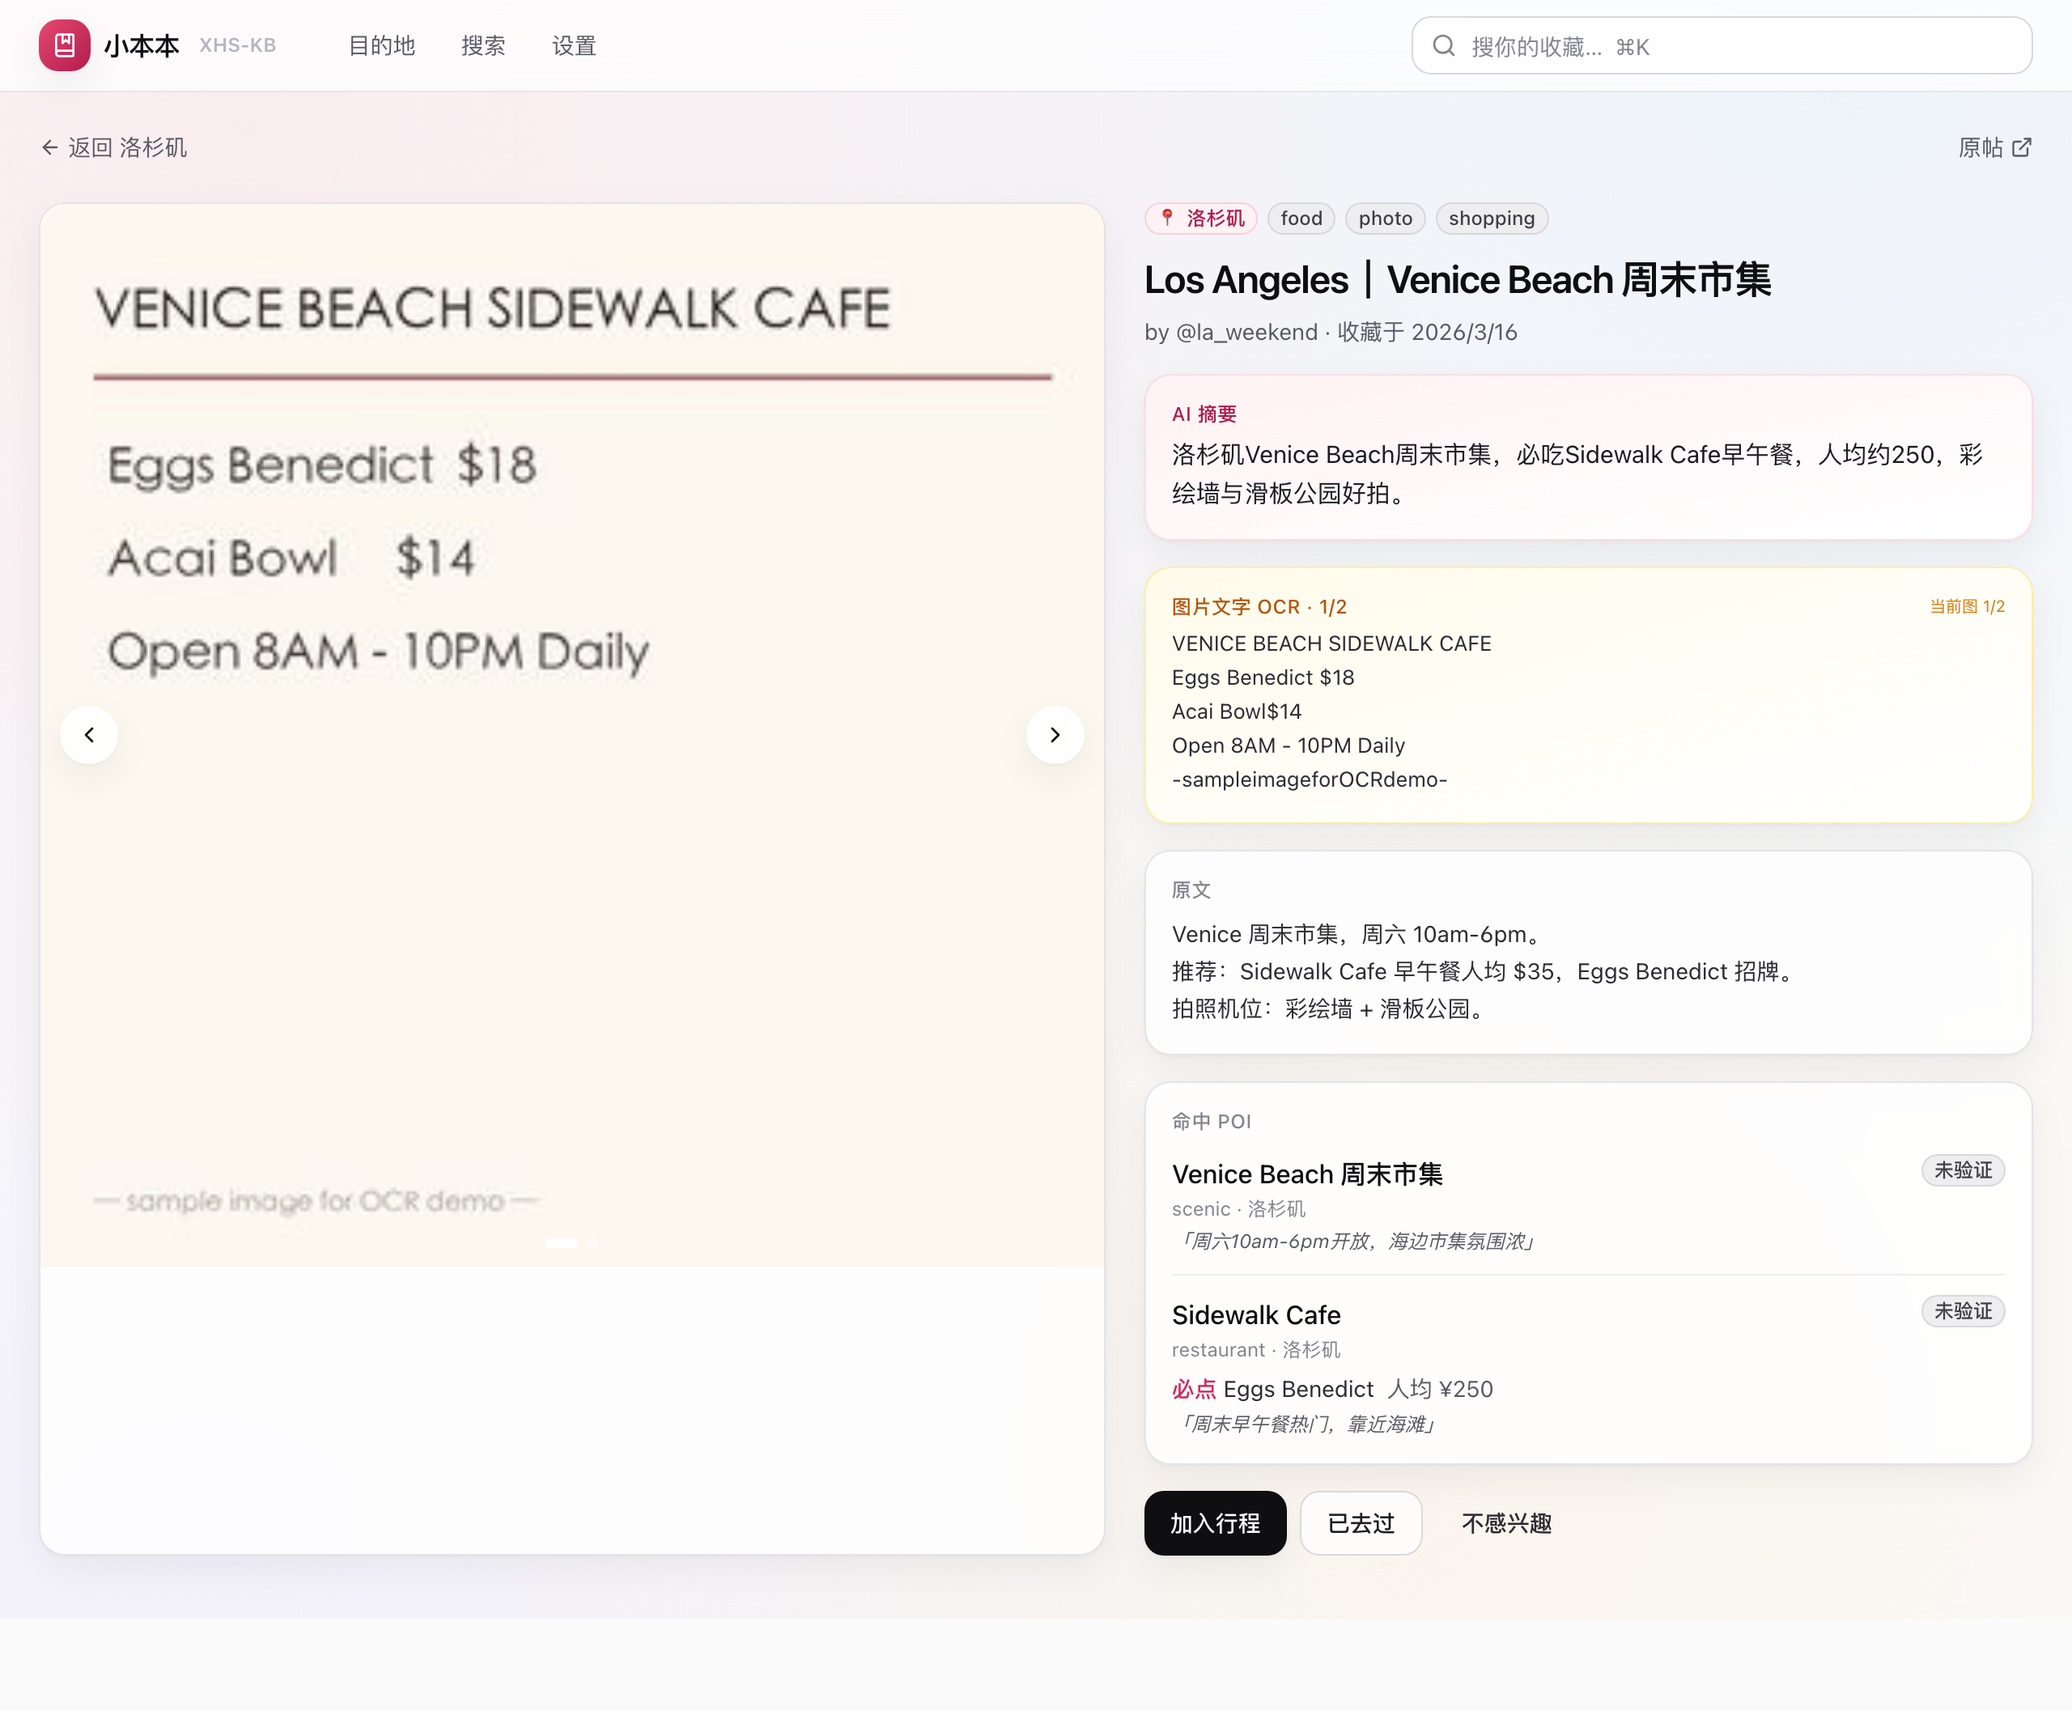
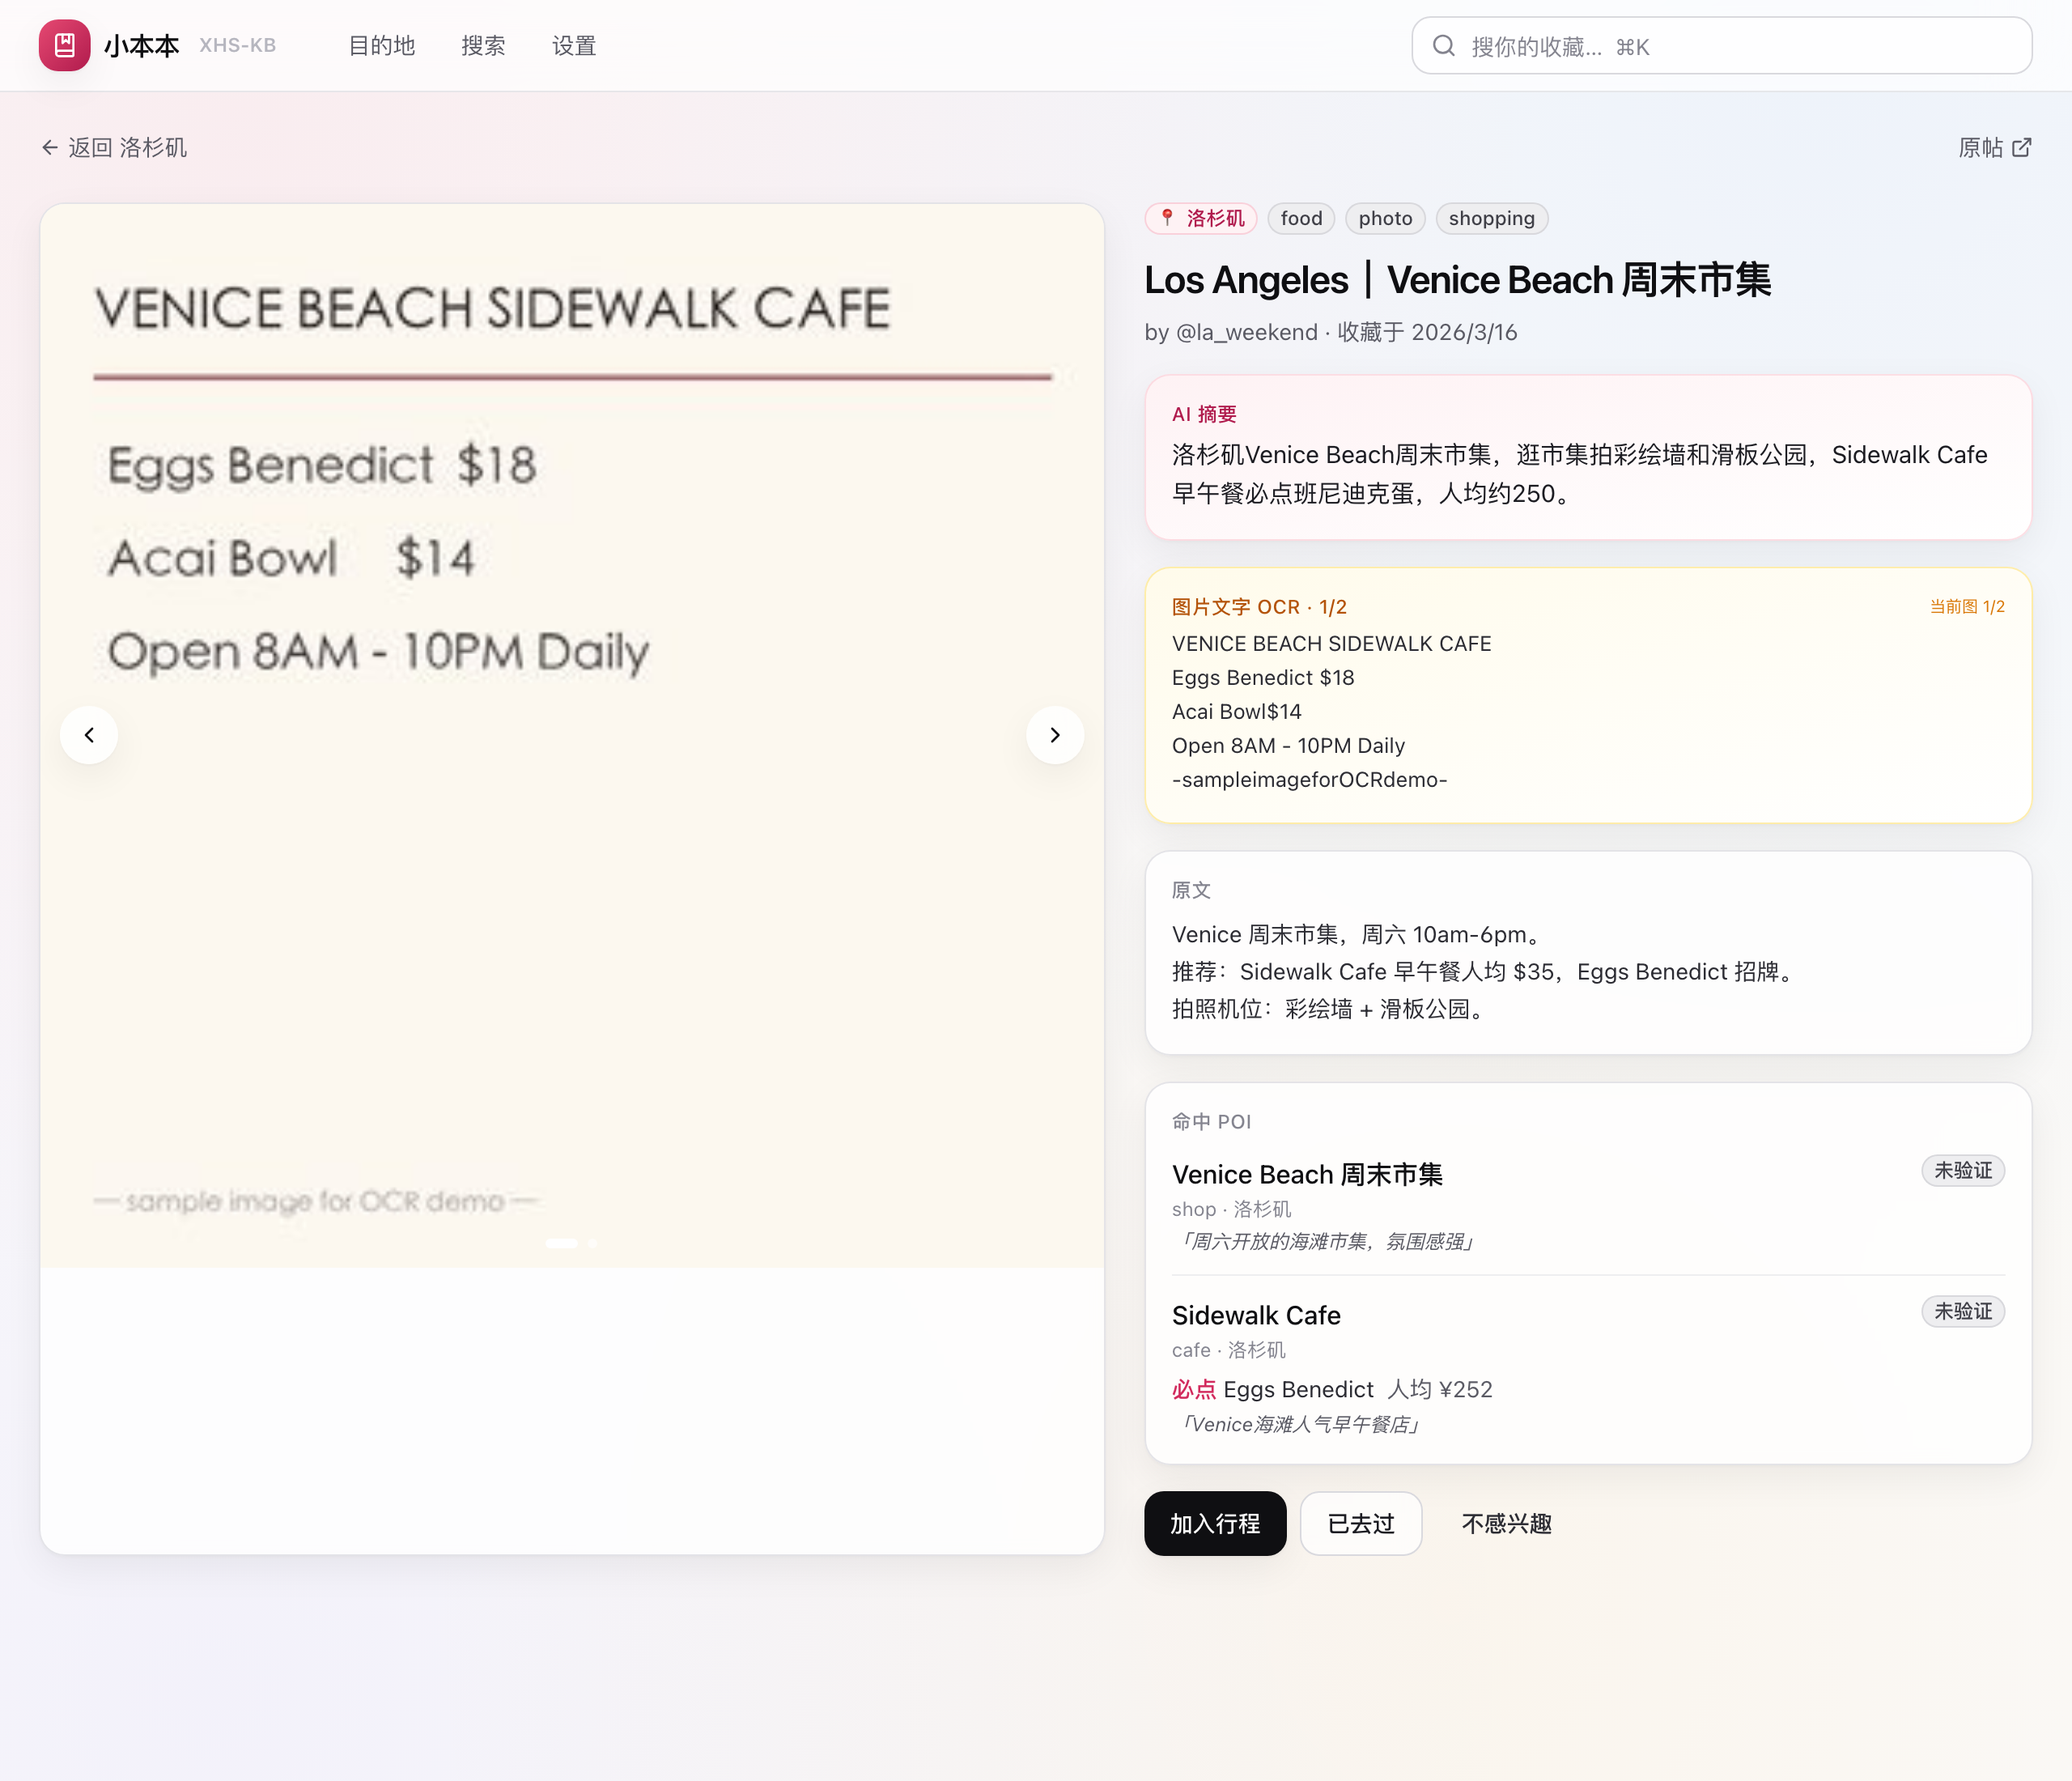
feat(embedding): multilingual-e5-small (384d) provider for CN+EN search
- backend/app/providers/embedding.py: LocalE5SmallProvider wraps sentence-transformers; lazy-loads on first use, prefixes 'passage:' for index and 'query:' (via embed_query) for search per e5 paper. Auto-sets HF_ENDPOINT=hf-mirror.com if unset (needed in CN networks).
- backend/app/providers/embedding.py: get_embedding_provider() honours new settings.embedding_provider config: 'auto' (default) prefers local e5 if installed → Azure → Qwen → Mock; 'local' forces e5; existing 'azure'/'qwen'/'mock' work as before.
- backend/app/services/search.py: hybrid_search uses embed_query() when provider supports it.
- backend/app/config.py: embedding_provider setting.

Verified end-to-end with re-seeded DB:
- '抹茶圣代' → kyt001 score 0.953 (top, gap 0.57 to next)
- '拉面' → kyt003 0.391 top
- 'Eggs Benedict' (English query) → la001 score 2.037 top — proves the OCR-extracted text from the Venice Beach menu image is indexed via e5 and found by an English query, validating the OCR + embedding pipelines end to end.

Screenshots: docs/screenshots/05b-search-ocr-english.png, 05c-search-matcha.png, 05d-search-ramen.png

diff --git a/backend/app/providers/embedding.py b/backend/app/providers/embedding.py
@@ -121,6 +121,48 @@ class AzureOpenAIEmbeddingProvider(EmbeddingProvider):
             return self._fallback.embed(texts)
 
 
+class LocalE5SmallProvider(EmbeddingProvider):
+    """sentence-transformers ``intfloat/multilingual-e5-small`` (384-d).
+
+    First call downloads ~120 MB of model weights to ``~/.cache/huggingface``
+    (set ``HF_ENDPOINT=https://hf-mirror.com`` if you're in mainland China).
+    Subsequent calls hit the in-process model instance.
+
+    Per the e5 paper, queries should be prefixed with ``"query: "`` and corpus
+    documents with ``"passage: "``. We default to ``passage:`` because
+    embeddings are produced for stored chunks; the search-time query goes
+    through :meth:`embed_query`.
+    """
+
+    dim = 384
+
+    def __init__(self, model_name: str = "intfloat/multilingual-e5-small"):
+        self._model_name = model_name
+        self._model = None
+
+    def _load(self):
+        if self._model is None:
+            import os
+            # Auto-fallback to HF mirror if not explicitly set, since the
+            # primary endpoint is frequently unreachable from CN networks.
+            if not os.environ.get("HF_ENDPOINT") and not os.environ.get("HF_HUB_OFFLINE"):
+                os.environ["HF_ENDPOINT"] = "https://hf-mirror.com"
+            from sentence_transformers import SentenceTransformer
+            self._model = SentenceTransformer(self._model_name)
+        return self._model
+
+    def embed(self, texts: list[str]) -> list[list[float]]:
+        m = self._load()
+        prefixed = [f"passage: {t}" for t in texts]
+        vecs = m.encode(prefixed, normalize_embeddings=True, show_progress_bar=False)
+        return [v.tolist() for v in vecs]
+
+    def embed_query(self, text: str) -> list[float]:
+        m = self._load()
+        v = m.encode([f"query: {text}"], normalize_embeddings=True, show_progress_bar=False)[0]
+        return v.tolist()
+
+
 _singleton: EmbeddingProvider | None = None
 
 
@@ -130,6 +172,10 @@ def get_embedding_provider() -> EmbeddingProvider:
         return _singleton
     if settings.use_mock == "true":
         _singleton = MockEmbeddingProvider()
+    elif settings.embedding_provider == "local" or (
+        settings.embedding_provider == "auto" and _local_available()
+    ):
+        _singleton = LocalE5SmallProvider()
     elif settings.has_azure_openai and settings.azure_openai_embedding_deployment.strip() and settings.azure_openai_embedding_deployment.strip().lower() != "mock":
         _singleton = AzureOpenAIEmbeddingProvider(
             settings.azure_openai_endpoint,
@@ -142,3 +188,11 @@ def get_embedding_provider() -> EmbeddingProvider:
     else:
         _singleton = MockEmbeddingProvider()
     return _singleton
+
+
+def _local_available() -> bool:
+    try:
+        import importlib.util
+        return importlib.util.find_spec("sentence_transformers") is not None
+    except Exception:
+        return False

diff --git a/backend/app/services/search.py b/backend/app/services/search.py
@@ -12,7 +12,11 @@ def hybrid_search(store: SqliteStore, query: str, *, limit: int = 20, city: str 
     llm = get_llm_provider()
 
     fts_hits = store.search(query, limit=limit, city=city)
-    qvec = embed.embed([query])[0]
+    # Use embed_query when the provider distinguishes (e5 prefixes 'query:')
+    if hasattr(embed, "embed_query"):
+        qvec = embed.embed_query(query)
+    else:
+        qvec = embed.embed([query])[0]
     vec_hits = store.vector_search(qvec, limit=limit, city=city)
 
     merged: dict[str, dict[str, Any]] = {}

diff --git a/backend/app/config.py b/backend/app/config.py
@@ -37,6 +37,11 @@ class Settings(BaseSettings):
     ocr_enabled: bool = True
     thumbnail_width: int = 320
 
+    # Embedding provider selection: "auto" prefers local e5-small if installed,
+    # otherwise Azure → Qwen → Mock. "local" forces e5-small. "azure"/"qwen"/"mock"
+    # force a specific provider.
+    embedding_provider: str = "auto"
+
     @property
     def has_azure_openai(self) -> bool:
         return bool(self.azure_openai_endpoint and self.azure_openai_api_key)
